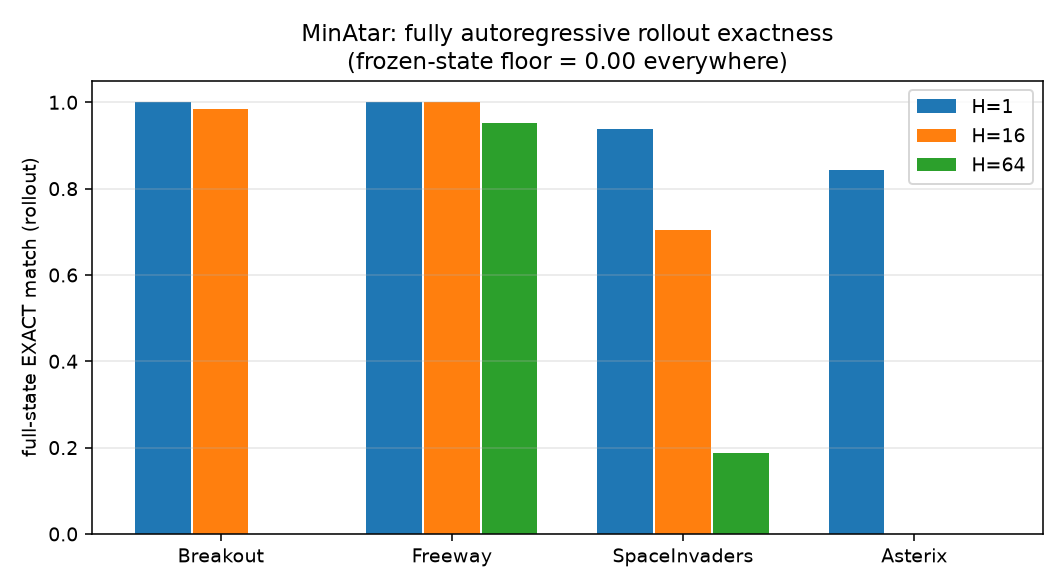
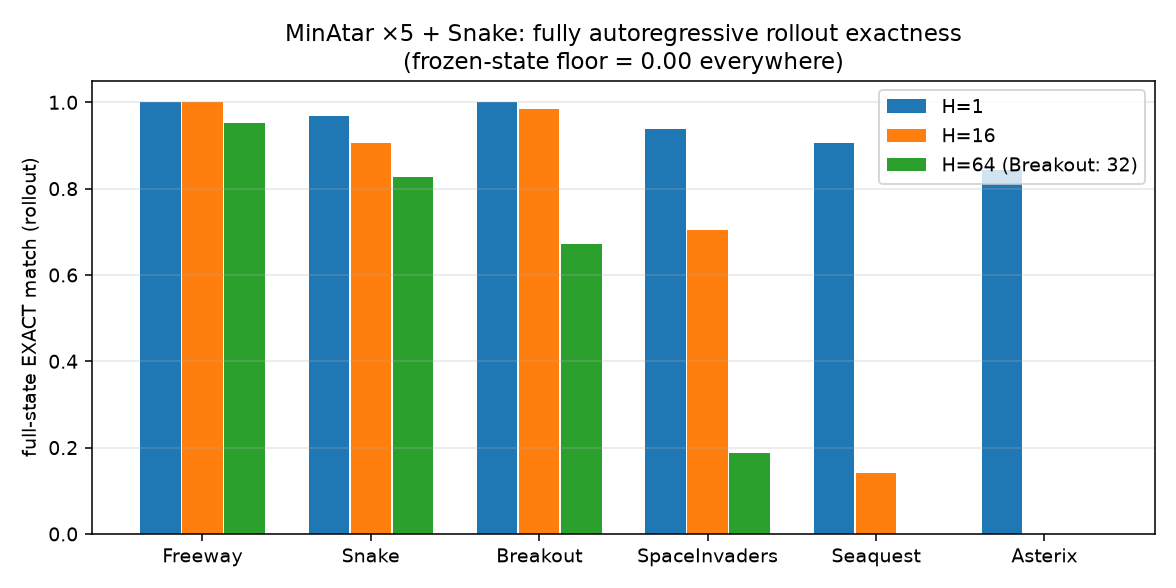
All six flatenv results in: Snake H64 82.8% full-state exact, Seaquest 1919-scalar TF 93.2%; fix Breakout horizon label (H=32)

diff --git a/index.html b/index.html
@@ -54,8 +54,10 @@ predicted state bit-for-bit identical to the ground truth? (Frozen-state floor i
 <table>
 <tr><th>environment</th><th>state scalars</th><th>teacher-forced</th><th>H=1</th><th>H=4</th><th>H=16</th><th>H=64</th></tr>
 <tr><td>Freeway (MinAtar)</td><td>36</td><td>0.999</td><td>1.000</td><td>1.000</td><td>1.000</td><td class="hero">0.953</td></tr>
-<tr><td>Breakout (MinAtar)</td><td>109</td><td>0.999</td><td class="hero">1.000</td><td>1.000</td><td>0.984</td><td>0.672</td></tr>
+<tr><td>Snake (jumanji, MASS's domain family)</td><td>444</td><td>0.945</td><td>0.969</td><td>0.938</td><td>0.906</td><td class="hero">0.828</td></tr>
+<tr><td>Breakout (MinAtar)</td><td>109</td><td>0.999</td><td class="hero">1.000</td><td>1.000</td><td>0.984</td><td>0.672 (H=32; episodes end sooner)</td></tr>
 <tr><td>SpaceInvaders (MinAtar)</td><td>312</td><td>0.959</td><td>0.938</td><td>0.859</td><td>0.703</td><td>0.188</td></tr>
+<tr><td>Seaquest (MinAtar, 5×100-slot entity tables)</td><td>1919</td><td>0.932</td><td>0.906</td><td>0.672</td><td>0.141</td><td>0.000</td></tr>
 <tr><td>Asterix (MinAtar)</td><td>51</td><td>0.897</td><td>0.844</td><td>0.531</td><td>0.000</td><td>0.000</td></tr>
 <tr><td>Craftax-Classic (2D Minecraft)</td><td>~450</td><td>0.109</td><td>0.219</td><td>0.094*</td><td>—</td><td>map 0.547 vs floor 0.250</td></tr>
 <tr><td>Craftax Full (9 floors)</td><td>84,033</td><td>0.204</td><td>0.234</td><td>0.094</td><td>—</td><td>changed-scalar acc 0.42</td></tr>
